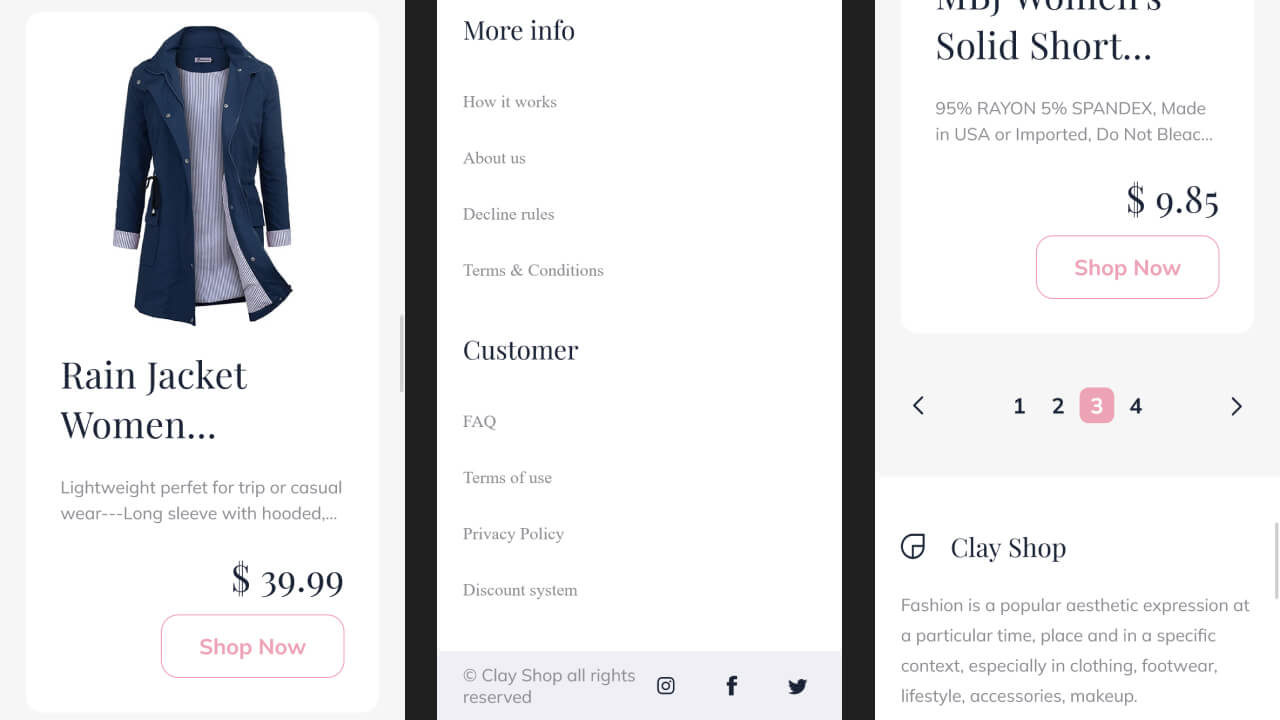
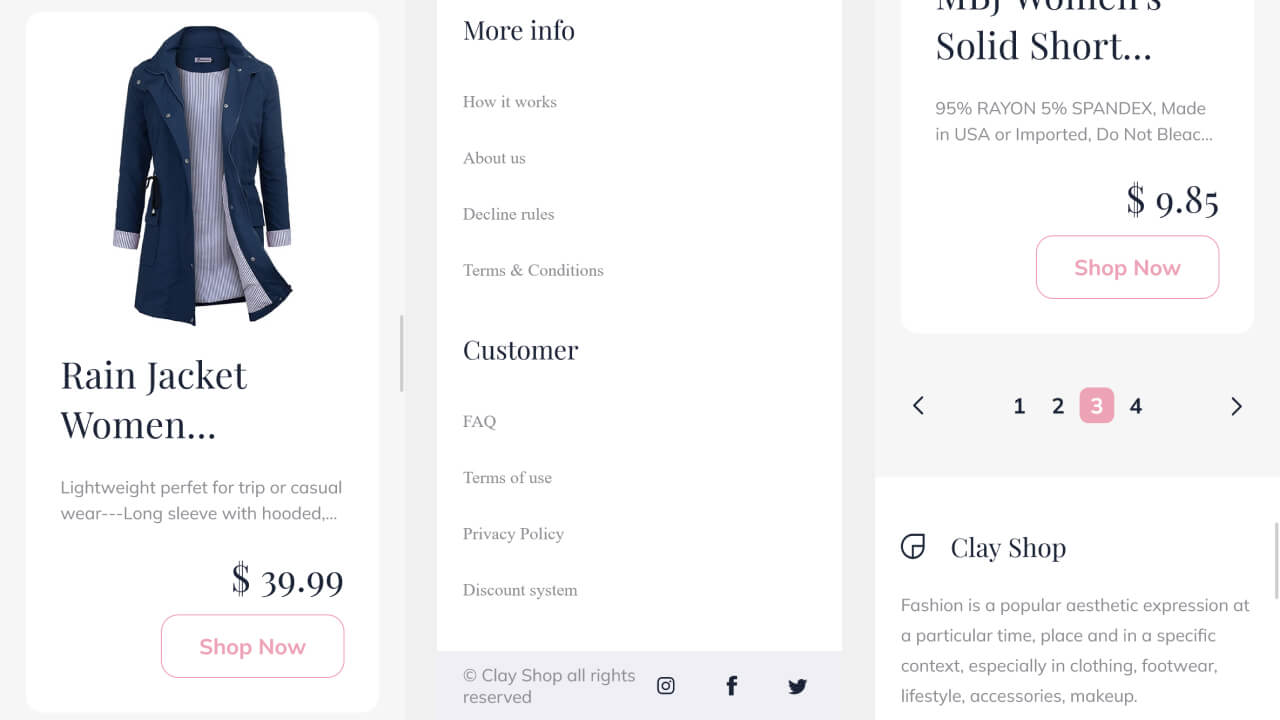
added new images to assets and projectsData, fixed carousel bug

Changed region(s): [[0.6562, 0.0, 0.6875, 1.0], [0.3125, 0.0, 0.3438, 1.0]]

diff --git a/data/projectsData.ts b/data/projectsData.ts
@@ -52,19 +52,19 @@ export const projectsData: IProjectsData[] = [
     ],
     imgList: [
       {
-        imgName: "",
+        imgName: "my-portfolio_01",
+        title: "Meu Portfólio",
+        desc: "Visite todas as páginas e sessões desejadas, entre em contato a partir da sessão contato.",
+      },
+      {
+        imgName: "my-portfolio_02",
         title: "Mobile",
-        desc: "Design responsivo dependendo da largura da tela do dispositivo.",
+        desc: "O site é completamente responsivo, se adaptando a diferentes tamanhos de tela.",
       },
       {
-        imgName: "",
-        title: "Projetos",
-        desc: "Seção para apresentação dos projetos.",
-      },
-      {
-        imgName: "",
-        title: "Sobre os Projetos",
-        desc: "Página para ver mais detalhes sobre cada projeto.",
+        imgName: "my-portfolio_03",
+        title: "Mobile",
+        desc: "Mais exemplos da versão de tela menores.",
       },
     ],
   },
@@ -193,19 +193,44 @@ export const projectsData: IProjectsData[] = [
     ],
     imgList: [
       {
-        imgName: "",
+        imgName: "twitter-clone_01",
+        title: "Página inicial",
+        desc: 'A página inicial contém sessões de informação sobre o site e o usuário e o "feed".',
+      },
+      {
+        imgName: "twitter-clone_02",
+        title: '"Feed"',
+        desc: 'O "feed" mostra as postagens das contas seguidas do usuário, podendo deixar um "like" ou acessar os comentários.',
+      },
+      {
+        imgName: "twitter-clone_03",
+        title: '"Followers',
+        desc: "Módulo mostrando os seguidores do usuário.",
+      },
+      {
+        imgName: "twitter-clone_04",
+        title: '"Following"',
+        desc: "Módulo mostrando as contas seguidas pelo usuário.",
+      },
+      {
+        imgName: "twitter-clone_05",
+        title: '"Explore"',
+        desc: "Módulo mostrando contas registradas no sistema.",
+      },
+      {
+        imgName: "twitter-clone_06",
+        title: '"Explore"',
+        desc: 'Busque por emails no módulo "explore".',
+      },
+      {
+        imgName: "twitter-clone_07",
+        title: '"Coments"',
+        desc: 'Módulo mostrando os comentários de um determinado "post", onde se é possível deixar um comentário ou um "like".',
+      },
+      {
+        imgName: "twitter-clone_08",
         title: "Mobile",
-        desc: "Design responsivo dependendo da largura da tela do dispositivo.",
-      },
-      {
-        imgName: "",
-        title: "Sua Conta",
-        desc: "Crie uma conta e comece a postar na sua linha do tempo. Interaja com outras contas através de likes e comentários.",
-      },
-      {
-        imgName: "",
-        title: "Explore",
-        desc: "Siga outras contas para ver suas publicações e interagir com elas.",
+        desc: "O site é completamente responsivo, se adaptando a diferentes tamanhos de tela.",
       },
     ],
   },
@@ -231,19 +256,59 @@ export const projectsData: IProjectsData[] = [
     ],
     imgList: [
       {
-        imgName: "",
+        imgName: "e-comerce-clay_01",
+        title: "Página inicial",
+        desc: '"Topo da página inicial, contém uma barra de navegação e um "header" com um botão "cta".',
+      },
+      {
+        imgName: "e-comerce-clay_02",
+        title: "Página inicial",
+        desc: "Cartões especiais para roupas e promoções.",
+      },
+      {
+        imgName: "e-comerce-clay_03",
+        title: "Página inicial",
+        desc: 'Últimas sessões da página inicial, mostrando parte de cartões e o "footer" do site.',
+      },
+      {
+        imgName: "e-comerce-clay_04",
+        title: 'Página "shop"',
+        desc: 'Topo da página "shop" contendo a barra de navegação, algumas opções de filtro de itens e os cartões de cada produto.',
+      },
+      {
+        imgName: "e-comerce-clay_05",
+        title: "Página do produto",
+        desc: "Sessão mostrando opções sobre o produto para a compra.",
+      },
+      {
+        imgName: "e-comerce-clay_06",
+        title: "Carrinho",
+        desc: "Checagem final dos produtos.",
+      },
+      {
+        imgName: "e-comerce-clay_07",
+        title: "Carrinho",
+        desc: "Opções de pagamento.",
+      },
+      {
+        imgName: "e-comerce-clay_08",
+        title: "Carrinho",
+        desc: "Informações para entrega.",
+      },
+      {
+        imgName: "e-comerce-clay_09",
+        title: "Carrinho",
+        desc: "Tela de sucesso.",
+      },
+      {
+        imgName: "e-comerce-clay_10",
         title: "Mobile",
-        desc: "Design responsivo dependendo da largura da tela do dispositivo.",
+        desc: "O site é completamente responsivo, se adaptando a diferentes tamanhos de tela.",
       },
       {
-        imgName: "",
-        title: "Shop",
-        desc: "Página para procurar produtos.",
-      },
-      {
-        imgName: "",
-        title: "Produto",
-        desc: "Mais detalhes sobre o produto escolhido.",
+        imgName: "e-comerce-clay_11",
+        title: "Mobile",
+        desc: "Mais exemplos da versão de tela menores.",
       },
     ],
   },
@@ -271,19 +336,19 @@ export const projectsData: IProjectsData[] = [
     ],
     imgList: [
       {
-        imgName: "",
-        title: "Query Events",
-        desc: "Busque por eventos, e receba de volta só aquilo que foi pedido.",
+        imgName: "graphql-server_01",
+        title: "Schemas",
+        desc: 'Lista de "schemas" do site.',
       },
       {
-        imgName: "",
+        imgName: "graphql-server_02",
+        title: "Documentação",
+        desc: "Documentos oferecidos pelo graphql, ajudando na documentação e entendimento da informação.",
+      },
+      {
+        imgName: "graphql-server_03",
         title: "Contas de Usuário",
-        desc: "Crie contas de usuários e faça login através de JSON Web Tokens.",
-      },
-      {
-        imgName: "",
-        title: "Crie Eventos",
-        desc: "Crie eventos, salve e exclua como desejar.",
+        desc: "Exemplo de criação de conta de usuário e obtenção de informações desejadas.",
       },
     ],
   },
@@ -310,19 +375,39 @@ export const projectsData: IProjectsData[] = [
     ],
     imgList: [
       {
-        imgName: "",
+        imgName: "news-site_01",
+        title: "Página inicial",
+        desc: "Topo da página inicial, contém uma barra de navegação e as principais notícias do dia.",
+      },
+      {
+        imgName: "news-site_02",
+        title: "Página inicial",
+        desc: "Sessão contendo as notícias mais atualizadas.",
+      },
+      {
+        imgName: "news-site_03",
+        title: "Página inicial",
+        desc: "Sessão contendo notícias por categoria.",
+      },
+      {
+        imgName: "news-site_04",
+        title: "Página inicial",
+        desc: '"Footer" da página inicial.',
+      },
+      {
+        imgName: "news-site_05",
+        title: "Categorias",
+        desc: "Página contendo notícias dependendo da categoria selecionada.",
+      },
+      {
+        imgName: "news-site_06",
+        title: "Categorias",
+        desc: "Página contendo notícias dependendo da categoria selecionada e ditado pelo termo de busca.",
+      },
+      {
+        imgName: "news-site_07",
         title: "Mobile",
-        desc: "Design responsivo dependendo da largura da tela do dispositivo.",
-      },
-      {
-        imgName: "",
-        title: "Diferentes Categorias",
-        desc: "Navegue e busque por diferentes notícias.",
-      },
-      {
-        imgName: "",
-        title: "Pesquise Por Mais",
-        desc: "Busque notícias mais específicas através da barra de pesquisa.",
+        desc: "O site é completamente responsivo, se adaptando a diferentes tamanhos de tela.",
       },
     ],
   },

diff --git a/components/carousel/ImgDisplay.tsx b/components/carousel/ImgDisplay.tsx
@@ -11,13 +11,8 @@ interface props {
 export const ImgDisplay = ({ activeIndex, imgObjects }: props) => {
   const [flipDeg, setFlipDeg] = useState(0);
   const [isFrontUp, setIsFrontUp] = useState(true);
-  const [imgFront, setImgFront] = useState(imgObjects[activeIndex].imgName);
-  const [imgBack, setImgBack] = useState(imgObjects[activeIndex].imgName);
-
-  console.log(
-    `${process.env.siteUrl}assets/images/${imgFront}.jpg`,
-    `${process.env.siteUrl}assets/images/${imgBack}.jpg`
-  );
+  const [imgFront, setImgFront] = useState(imgObjects[0].imgName);
+  const [imgBack, setImgBack] = useState(imgObjects[0].imgName);
 
   const onIndexChange = () => {
     if (isFrontUp) {
@@ -34,6 +29,11 @@ export const ImgDisplay = ({ activeIndex, imgObjects }: props) => {
   useEffect(() => {
     onIndexChange();
   }, [activeIndex]);
+
+  useEffect(() => {
+    setImgFront(imgObjects[0].imgName);
+    setImgBack(imgObjects[0].imgName);
+  }, [imgObjects]);
 
   return (
     <div className={styles.container}>

diff --git a/components/carousel/ImgCarousel.tsx b/components/carousel/ImgCarousel.tsx
@@ -1,18 +1,10 @@
-import { useState } from "react";
+import { useEffect, useState } from "react";
 
 import { IProjectsData } from "../../data/projectsData";
-
-import img1 from "../../assets/images/img-1.jpg";
-import img2 from "../../assets/images/img-2.jpg";
-import img3 from "../../assets/images/img-3.jpg";
-import img4 from "../../assets/images/img-4.jpg";
-import img5 from "../../assets/images/img-5.jpg";
 
 import styles from "../../styles/components/carousel/ImgCarousel.module.scss";
 import { ImgDisplay } from "./ImgDisplay";
 import { Carousel } from "./Carousel";
-
-const imgList = [img1, img2, img3, img4, img5, img1, img2, img3, img4];
 
 interface props {
   project: IProjectsData;
@@ -20,6 +12,10 @@ interface props {
 
 export const ImgCarousel = ({ project }: props) => {
   const [activeIndex, setActiveIndex] = useState(0);
+
+  useEffect(() => {
+    setActiveIndex(0);
+  }, [project]);
 
   return (
     <div className={styles.container}>

diff --git a/components/carousel/Carousel.tsx b/components/carousel/Carousel.tsx
@@ -33,11 +33,7 @@ export const Carousel = ({ activeIndex, setActiveIndex, imgList }: props) => {
     }
   };
 
-  useEffect(() => {
-    setColor(Colors.getRandomColor());
-  }, []);
-
-  useEffect(() => {
+  const getEndIndex = () => {
     if (width <= 480) {
       setStepSize(55);
       setListEndIndex(imgList.length - 2);
@@ -48,7 +44,24 @@ export const Carousel = ({ activeIndex, setActiveIndex, imgList }: props) => {
       if (imgIndex >= listEndIndex) {
         setImgIndex(listEndIndex);
       }
+
+      if (listEndIndex < 0) {
+        setListEndIndex(0);
+      }
     }
+  };
+
+  useEffect(() => {
+    setColor(Colors.getRandomColor());
+  }, []);
+
+  useEffect(() => {
+    setImgIndex(0);
+    getEndIndex();
+  }, [imgList]);
+
+  useEffect(() => {
+    getEndIndex();
   }, [width]);
 
   return (

diff --git a/styles/components/carousel/Carousel.module.scss b/styles/components/carousel/Carousel.module.scss
@@ -26,7 +26,8 @@
 
       transition: transform 0.2s;
 
-      border: 1px solid $color-black;
+      border-top: 1px solid $color-black;
+      border-bottom: 1px solid $color-black;
 
       &:hover {
         opacity: 0.9;

diff --git a/styles/_sass/_colors.scss b/styles/_sass/_colors.scss
@@ -1,5 +1,5 @@
 $color-black: #151515;
-$color-white: #fafafa;
+$color-white: #f0f0f0;
 
 $color-grey: #566075;
 $color-grey-dark: #252525;
